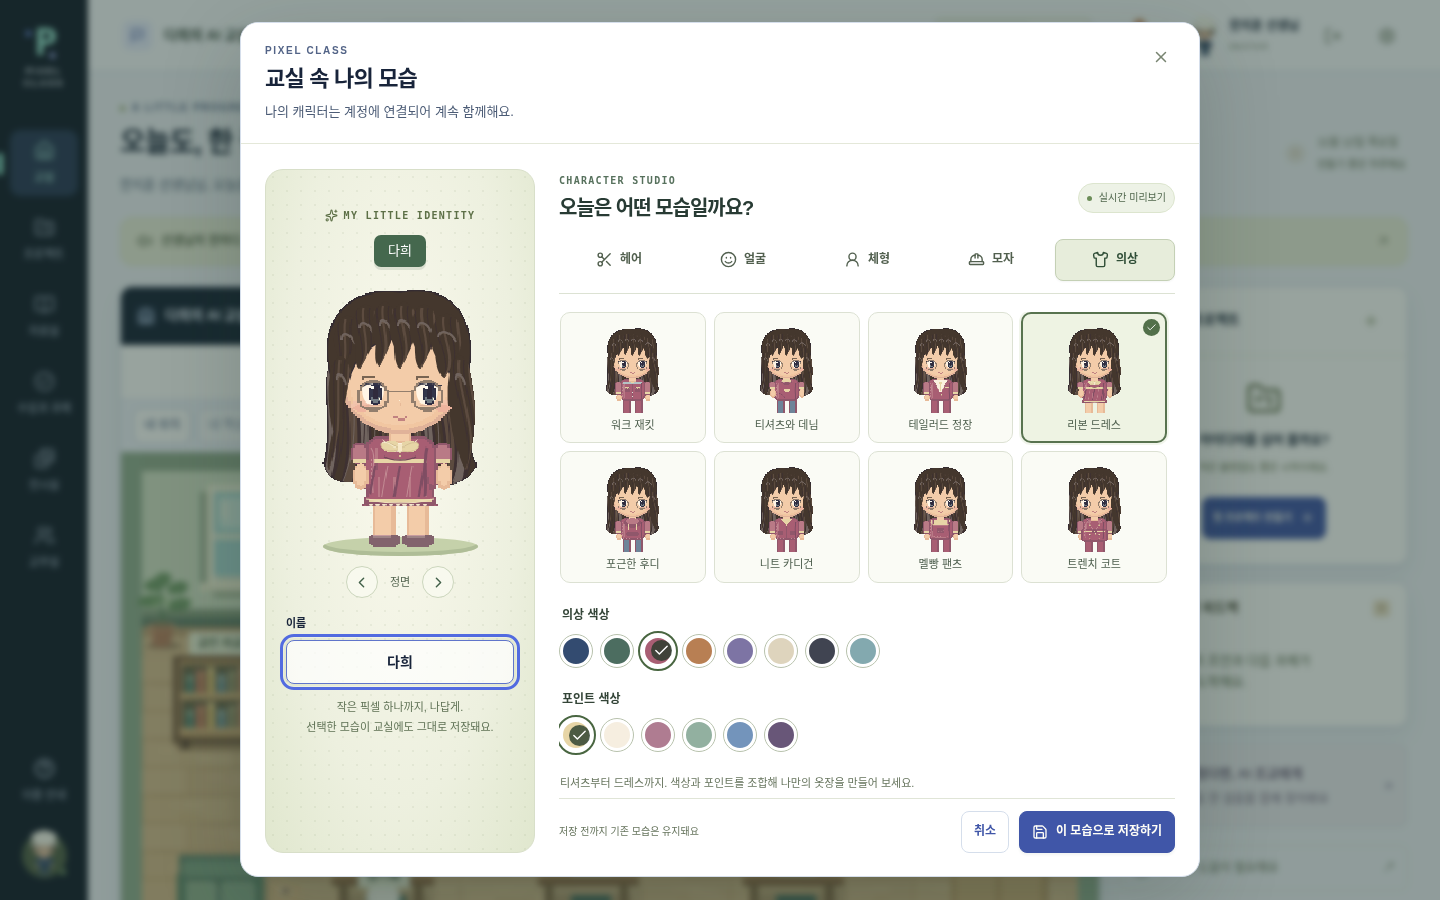
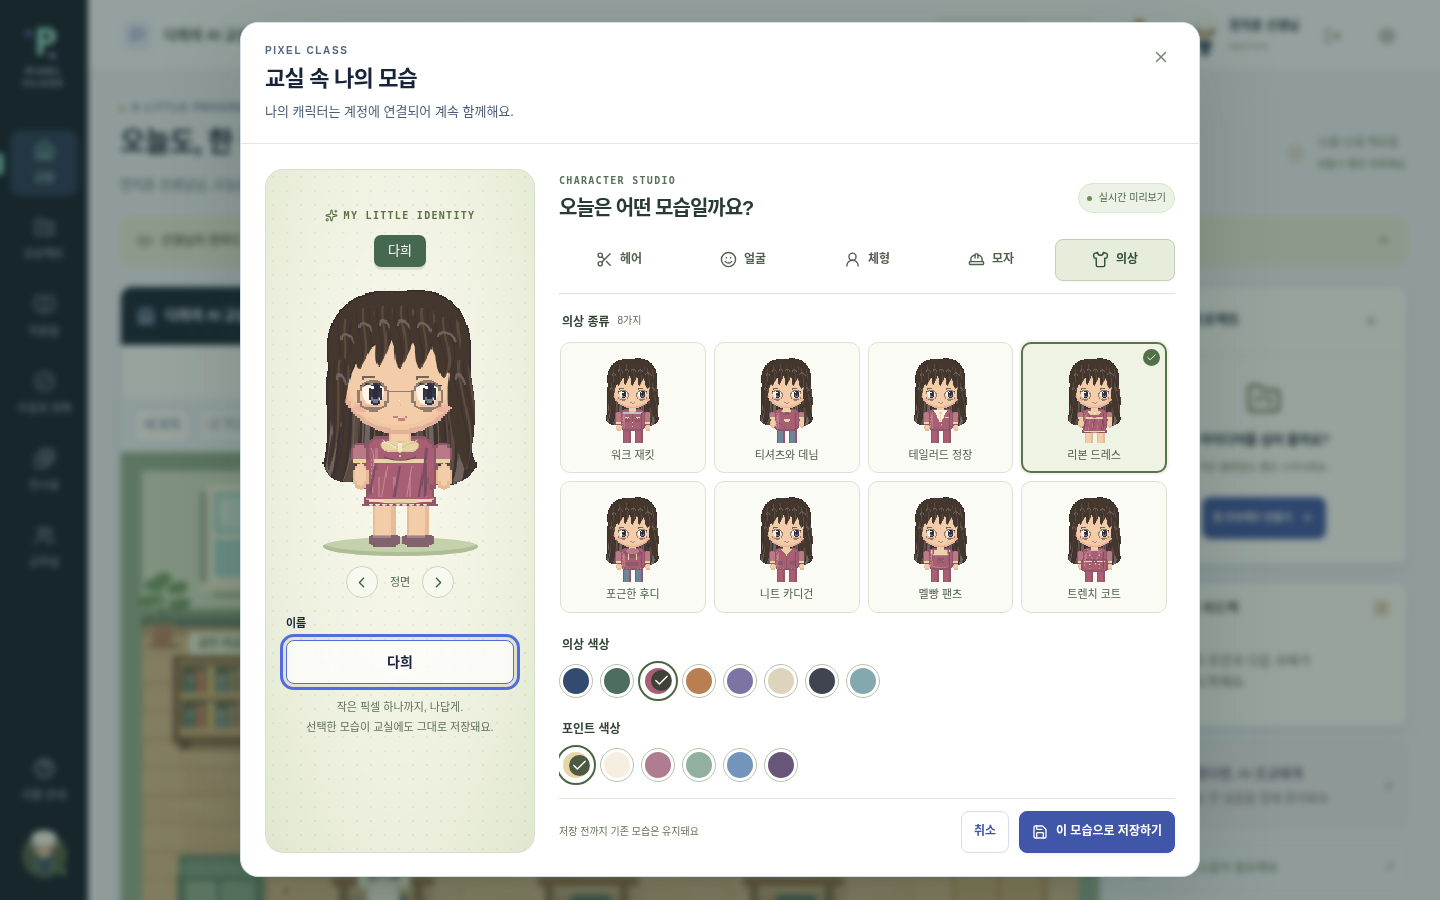
fix: keep curated outfit colors selectable in the editor

Changed region(s): [[0.375, 0.3422, 0.625, 0.8711], [0.625, 0.3422, 0.8125, 0.6844], [0.5938, 0.84, 0.625, 0.8711]]

diff --git a/tests/studio.test.ts b/tests/studio.test.ts
@@ -8,7 +8,12 @@ import { once } from 'node:events';
 import { createHash, randomBytes } from 'node:crypto';
 import { DatabaseSync } from 'node:sqlite';
 import { defaultAppearance } from '../shared/types.js';
-import { appearanceOptions, normalizeAppearance, appearancePresets } from '../shared/appearance.js';
+import {
+  appearanceOptions,
+  appearanceColors,
+  normalizeAppearance,
+  appearancePresets,
+} from '../shared/appearance.js';
 import { appearanceSchema } from '../shared/appearance-schema.js';
 import { defaultSchoolSettings } from '../shared/school.js';
 const directory = mkdtempSync(join(tmpdir(), 'pixel-studio-api-'));
@@ -148,11 +153,21 @@ test('expanded appearance catalog validates every option, rejects unsafe data, a
         false,
       );
   }
-  for (const preset of appearancePresets)
+  for (const preset of appearancePresets) {
     assert.equal(
       appearanceSchema.safeParse({ ...defaultAppearance, ...preset.changes }).success,
       true,
     );
+    // Every curated color must have a visible selected swatch in the editor.
+    for (const [key, palette] of Object.entries(appearanceColors)) {
+      const color = preset.changes[key as keyof typeof appearanceColors];
+      if (color)
+        assert.ok(
+          (palette as readonly string[]).includes(color),
+          `${preset.name}: ${key} has no selectable swatch`,
+        );
+    }
+  }
   for (const key of ['skin', 'helmetColor', 'outfitColor', 'accentColor'])
     assert.equal(
       appearanceSchema.safeParse({ ...defaultAppearance, [key]: 'url(javascript:bad)' }).success,

diff --git a/tests/character-studio.spec.ts b/tests/character-studio.spec.ts
@@ -229,7 +229,11 @@ test('art-directed presets preserve skin and body, stay drafts until saved and r
   });
   await page.getByRole('button', { name: '나의 캐릭터 꾸미기', exact: true }).click();
   dialog = page.getByRole('dialog');
-  await dialog.getByRole('button', { name: '스타일 프리셋: 미드나잇 테일러', exact: true }).click();
+  await dialog.getByRole('button', { name: '스타일 프리셋: 라벤더 웨이브', exact: true }).click();
+  await dialog.getByRole('button', { name: '모자', exact: true }).click();
+  await expect(
+    dialog.getByRole('button', { name: '모자 색상 #f7f6ed', exact: true }),
+  ).toHaveAttribute('aria-pressed', 'true');
   await dialog.getByRole('button', { name: '취소', exact: true }).click();
   expect((await (await context.request.get('/api/state')).json()).me.appearance).toEqual(saved);
   // Return this shared demo identity to its original look for unrelated regression flows.

diff --git a/shared/appearance.ts b/shared/appearance.ts
@@ -172,7 +172,7 @@ export const appearancePresets: { name: string; changes: Partial<Appearance> }[]
       expression: 0,
       accessory: 0,
       helmetStyle: 2,
-      helmetColor: '#ded4bd',
+      helmetColor: '#f7f6ed',
       helmetPattern: 0,
       outfit: 7,
       outfitColor: '#7d74a4',

diff --git a/FINE_PIXEL_ART_REPORT.md b/FINE_PIXEL_ART_REPORT.md
@@ -22,7 +22,8 @@
 2. 첫 확대 캡처에서 머릿결 경계와 반사광이 강해 굵은 가닥처럼 보이는 문제 발견 → 개별 가닥 외곽선을 제거하고 명암 대비/하이라이트 폭 조정.
 3. 교실 실제 크기에서 바닥 무늬는 번잡하고 식물은 사각 덩어리로 보이는 문제 발견 → 결 밀도를 줄이고 잎/화분/쿠션 실루엣 수정.
 4. 긴 머리의 앞머리와 눈의 균형을 추가 검토 → 앞머리 가닥을 촘촘히 하고 일부 눈 옵션의 홍채/눈꺼풀을 더 잘 구분하도록 조정.
-5. 프리셋과 개별 스타일을 같은 렌더러로 촬영하고 네 방향·걷기·앉기·모바일·노트북·30명 교실·텍스처 폐기 회귀 검사로 확인. 최종 결과는 아래/STATUS.md에 기록.
+5. 추천 코디의 크림색 모자가 선택 색상표에 없는 문제 발견 → 선택 상태를 확인할 수 있는 기존 팔레트 색상으로 통일. 먼저 추가한 팔레트 검사 실패를 확인하고 수정했으며 실제 UI 선택 표시도 검사.
+6. 프리셋과 개별 스타일을 같은 렌더러로 촬영하고 네 방향·걷기·앉기·모바일·노트북·30명 교실·텍스처 폐기 회귀 검사로 확인. 최종 결과는 아래/STATUS.md에 기록.
 
 ## 캡처와 실제 출력
 
